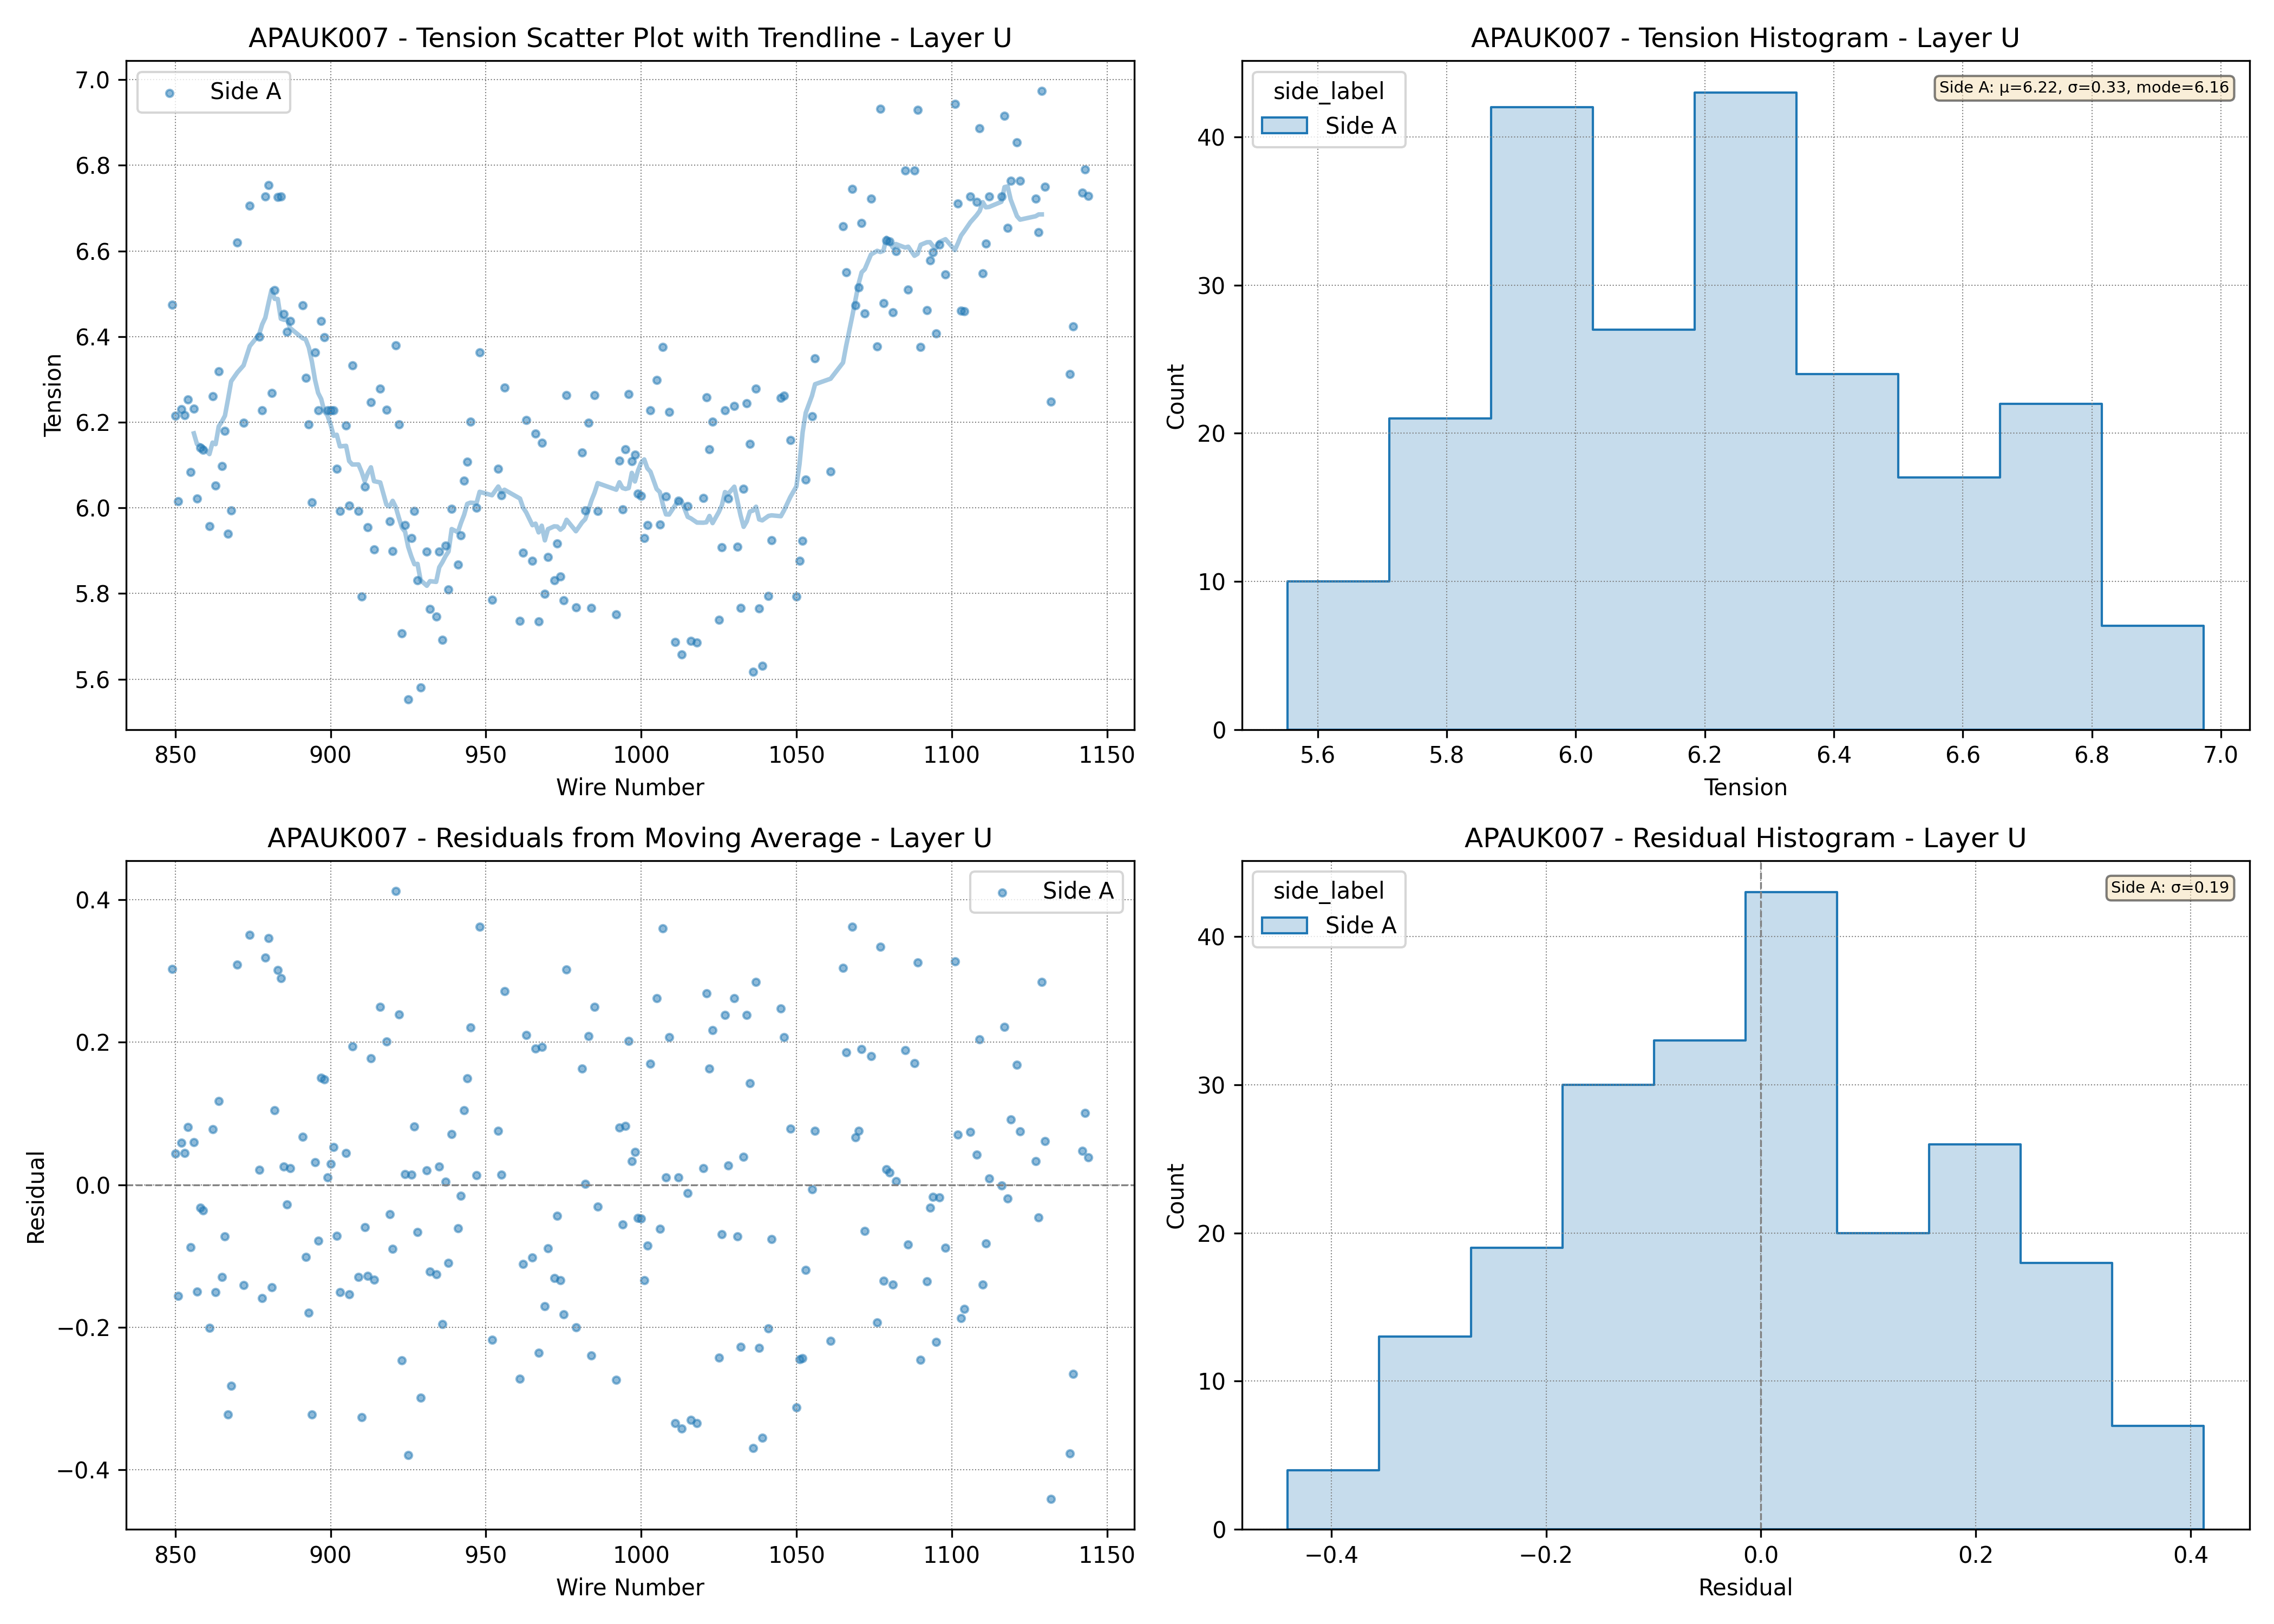
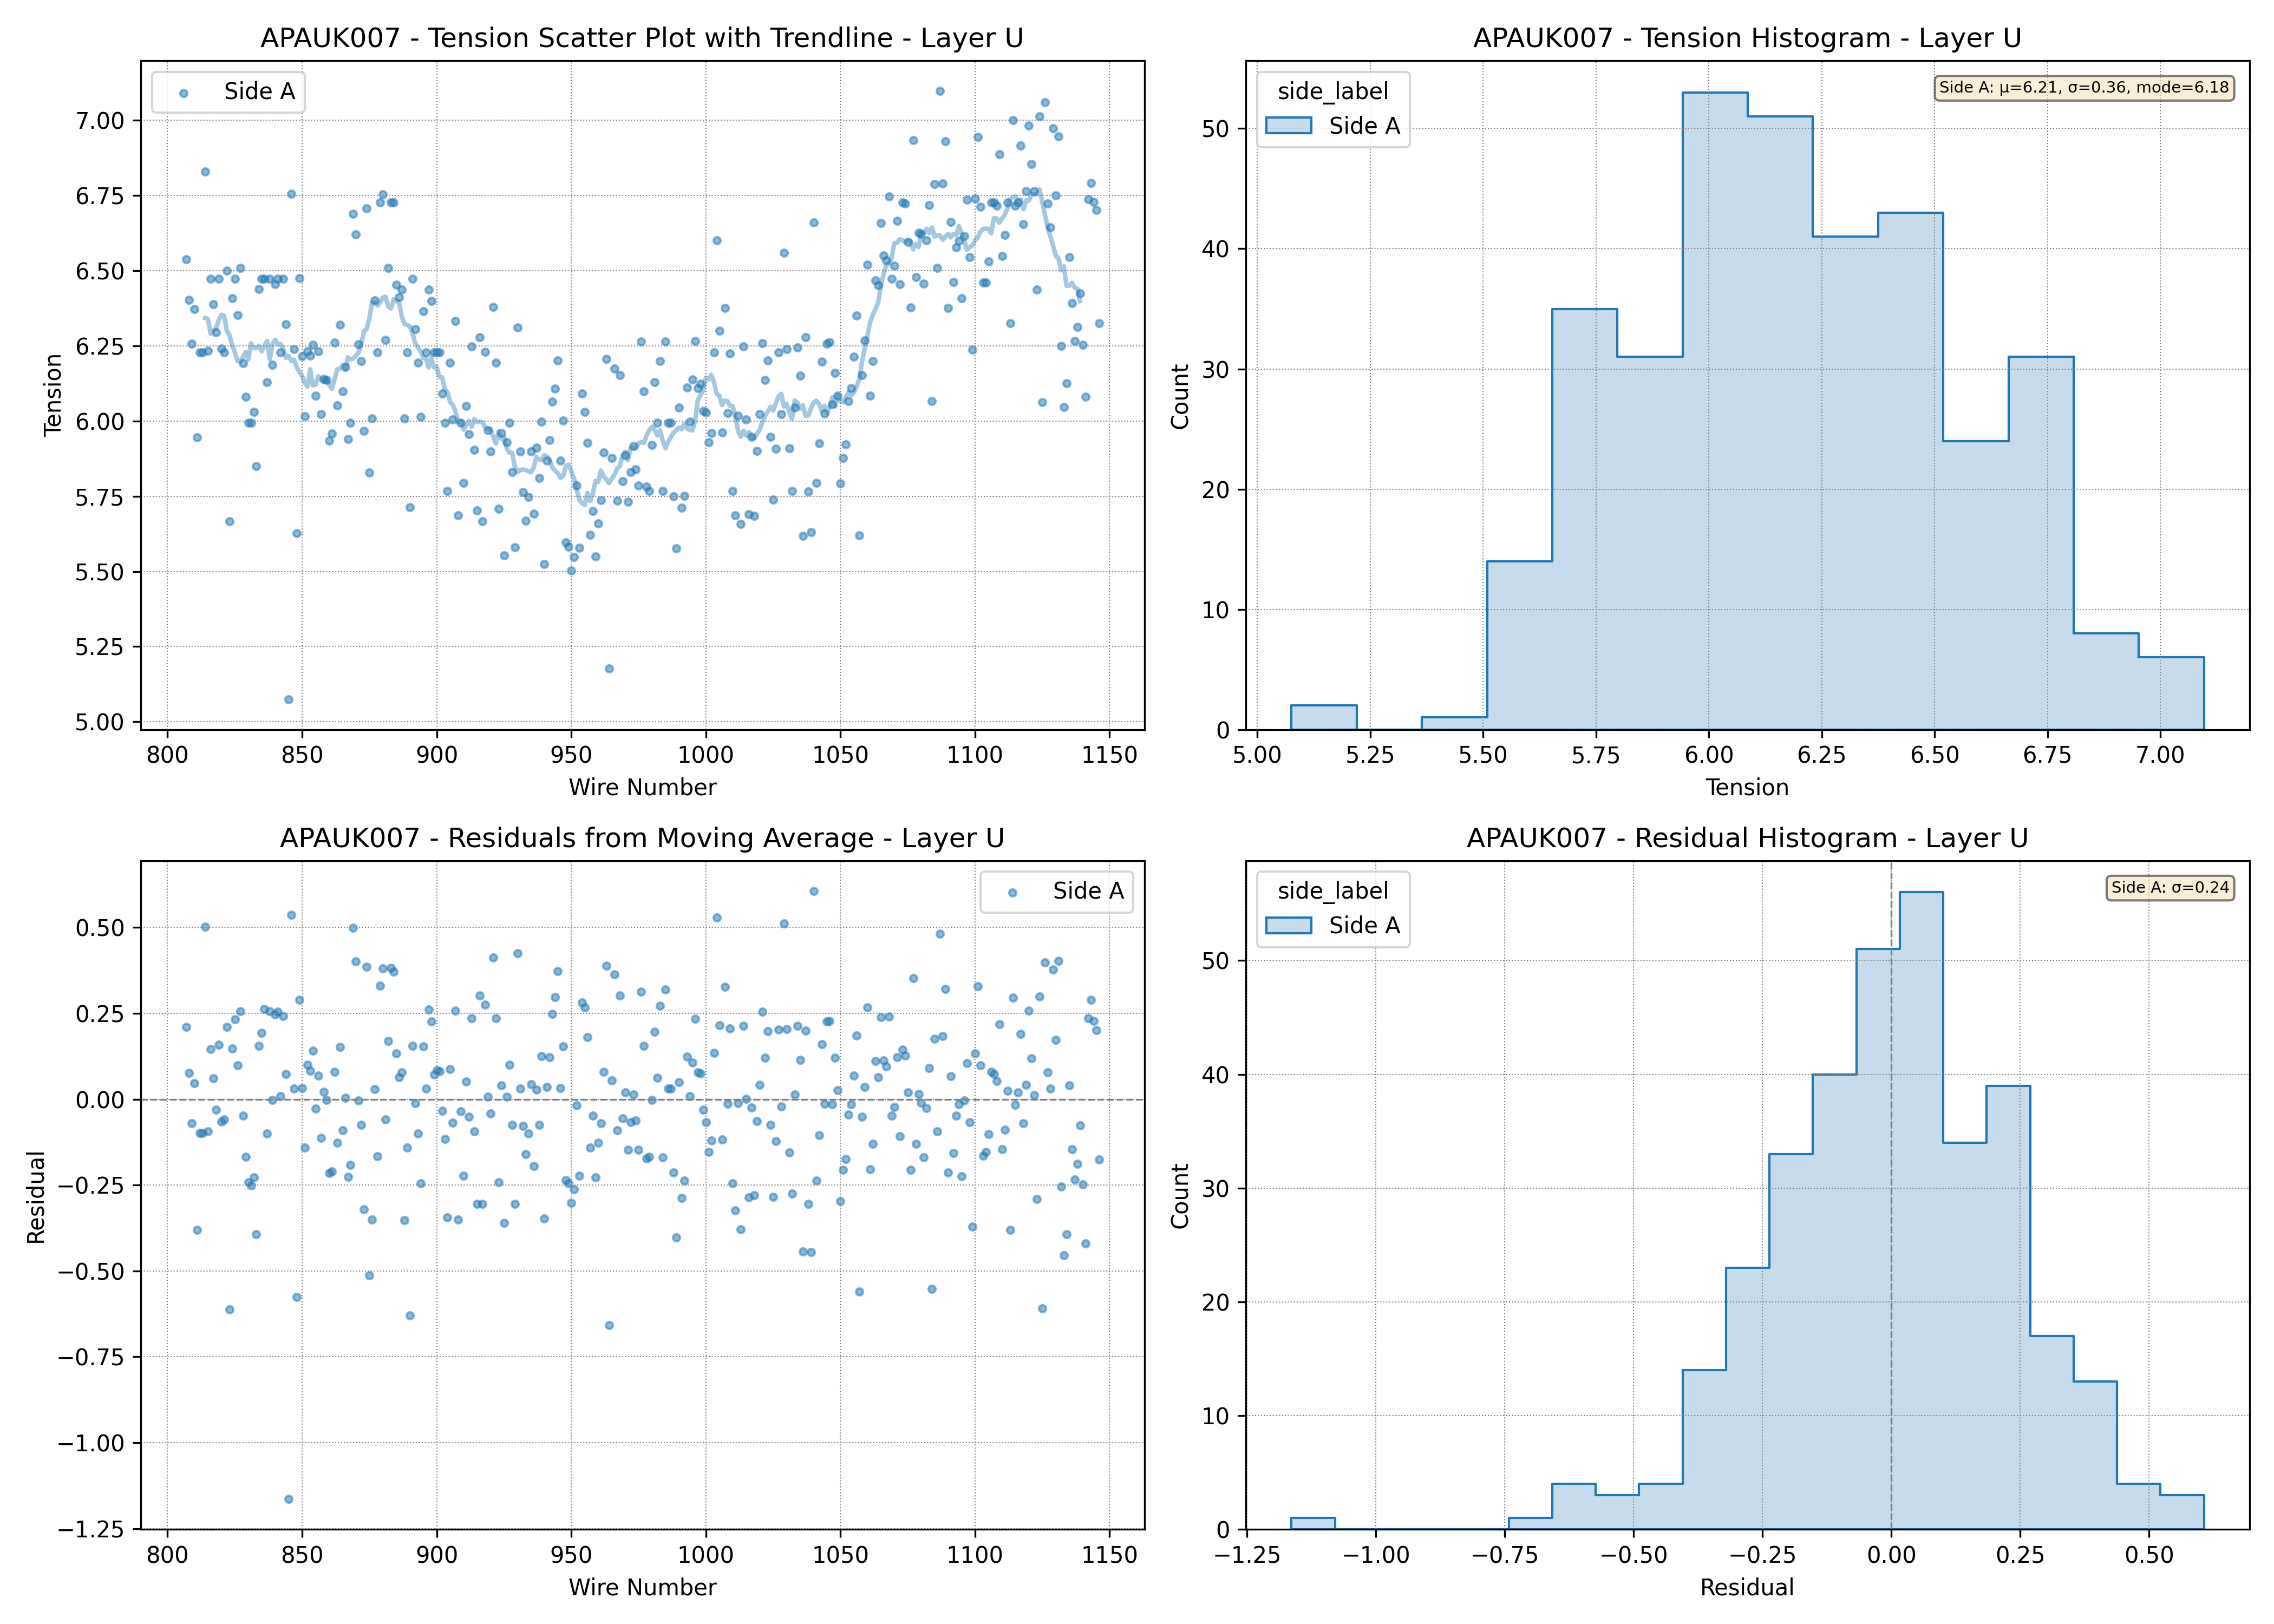
feat(tension): update APAUK007 measurement artifacts

diff --git a/dune_tension/experiments/UKAPA7_comparison/presentationNotes.md b/dune_tension/experiments/UKAPA7_comparison/presentationNotes.md
@@ -60,6 +60,10 @@ Blue is the A side, Green is the B side.
   wires lower in Chicago.
 - Residual widths are about `0.5 N` on both sides.
 
+Orange lines are the UK, blue lines are chicago. Left is the A side, right is the B side
+The lines are moving average of 3.
+The wire numberings go from bottom to top on the A side and top to bottom on the B side.
+
 2.3/5.75*8*0.218 = .7mm over the length of a long wire for a -0.5 change in tension assuming youngs mod E = 130Gpa
 
 ---